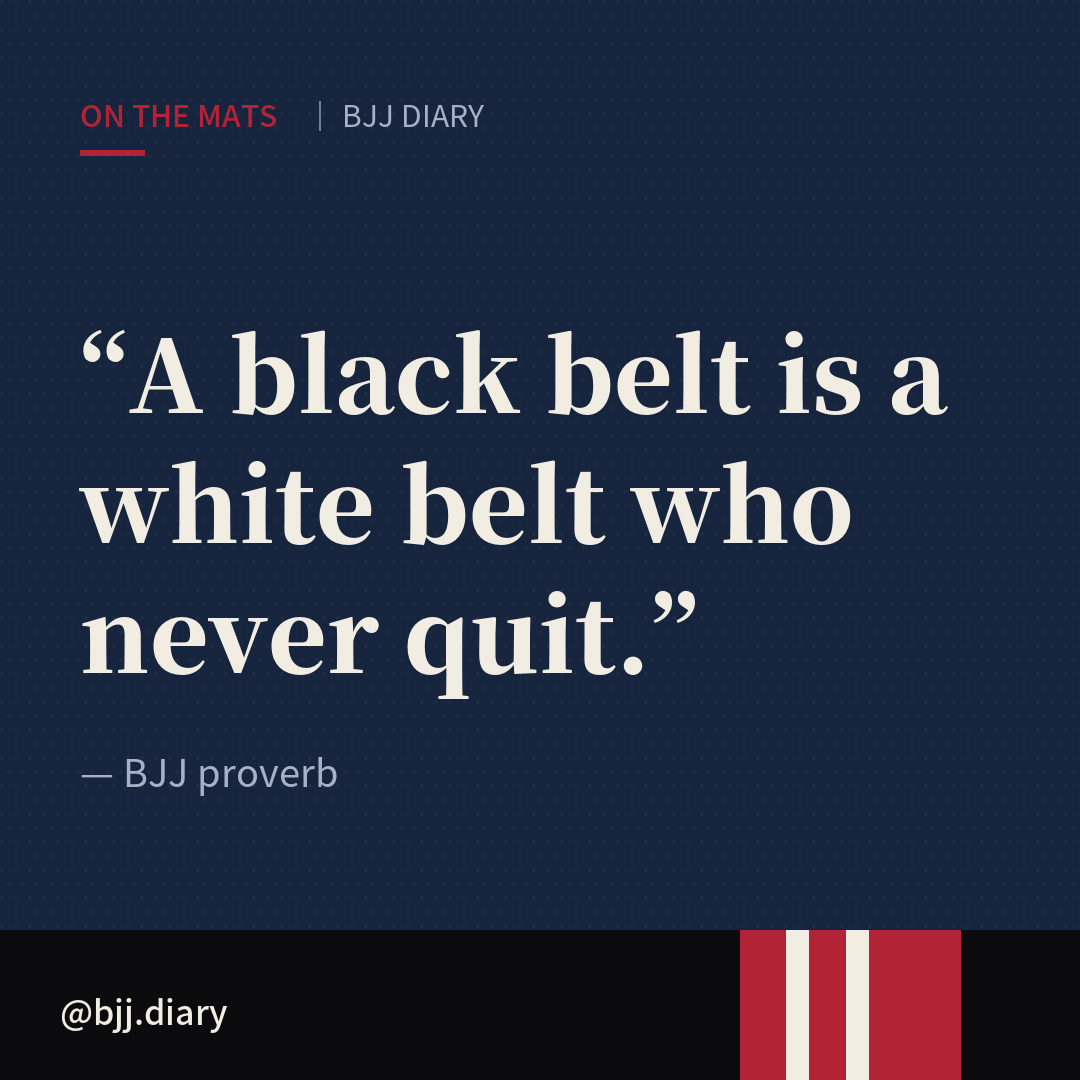
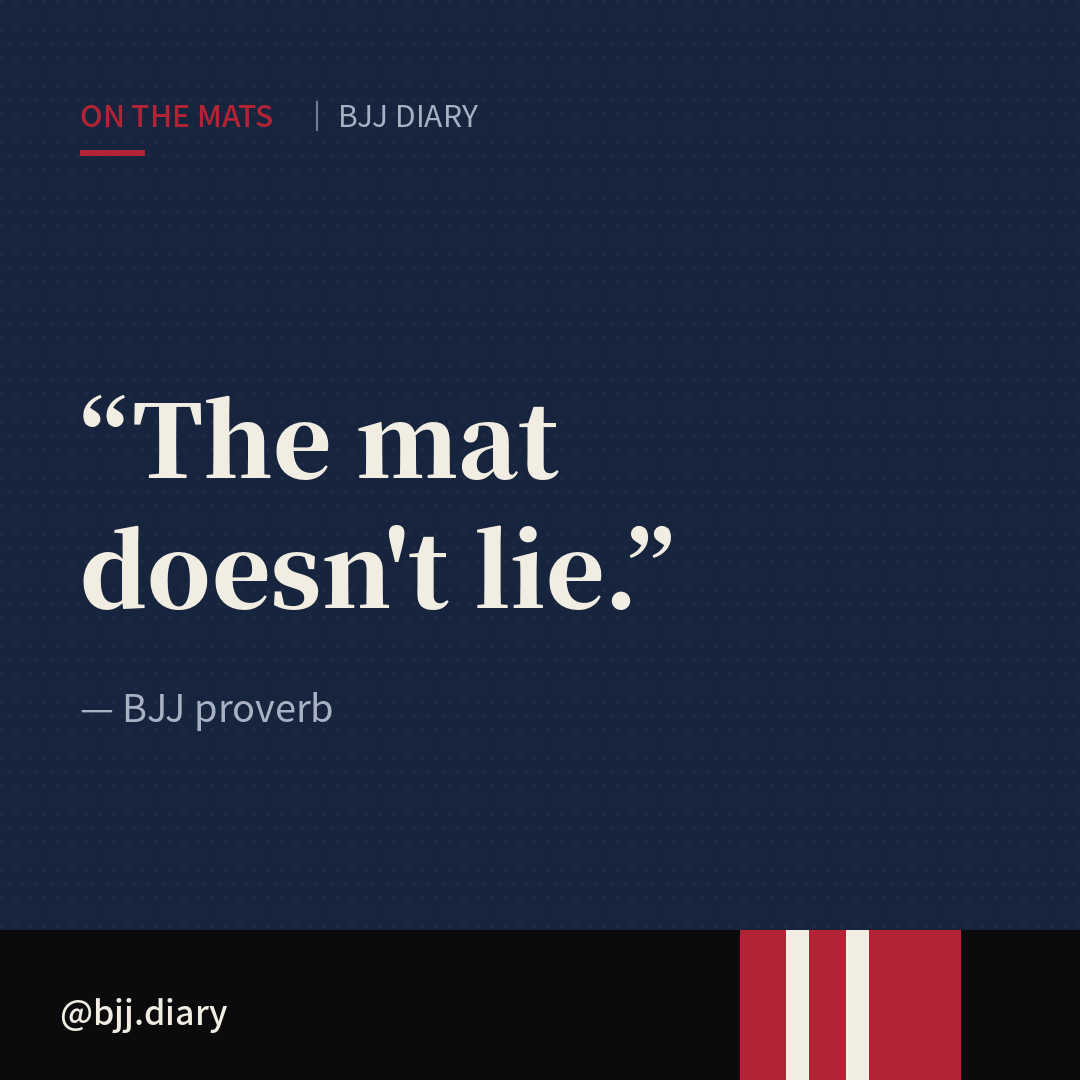
自動投稿 7/20~8/2

diff --git a/generate_cards.py b/generate_cards.py
@@ -28,9 +28,9 @@ FADE       = (168, 177, 196)
 HANDLES = {"ja": "@bjj.diary.jp", "en": "@bjj.diary"}
 
 EYEBROWS = {
-    "tips":    {"ja": ("TRAINING TIPS", "柔術日記"), "en": ("TRAINING TIPS", "BJJ DIARY")},
+    "tips":    {"ja": ("TRAINING TIPS", "BJJ DIARY"), "en": ("TRAINING TIPS", "BJJ DIARY")},
     "quote":   {"ja": ("ON THE MATS", "今日の一言"), "en": ("ON THE MATS", "BJJ DIARY")},
-    "feature": {"ja": ("WHY 柔術日記", "アプリのこと"), "en": ("WHY BJJ DIARY", "THE APP")},
+    "feature": {"ja": ("WHY BJJ DIARY", "アプリのこと"), "en": ("WHY BJJ DIARY", "THE APP")},
     "trivia":  {"ja": ("BJJ TRIVIA", "柔術豆知識"), "en": ("BJJ TRIVIA", "BJJ DIARY")},
 }
 
@@ -110,6 +110,8 @@ def fit_size(d, lines, path, start, min_size, max_w):
 def render(entry, lang):
     data = entry[lang]
     ctype = entry.get("type", "tips")
+    if ctype == "mockup":
+        return render_mockup(entry, lang)
     img = weave_texture(Image.new("RGB", (W, H), GI_NAVY))
     d = ImageDraw.Draw(img)
 
@@ -154,6 +156,75 @@ def main():
         for lang in ("ja", "en"):
             if lang in entry:
                 render(entry, lang)
+
+
+
+
+# ===== mockup card =====
+CREAM      = (250, 247, 240)
+RULE_GRAY  = (215, 211, 204)
+MARGIN_RED = (234, 92, 78)
+INK        = (58, 50, 44)
+INK_SOFT   = (135, 126, 117)
+
+ASSET_STYLE = {
+    "tilt_ja_journal": dict(height=1150, cx=810, cy=560, rotate=0),
+    "tilt_ja_drills":  dict(height=1150, cx=810, cy=560, rotate=0),
+    "mock_ja_stats":   dict(height=1020, cx=800, cy=545, rotate=-6),
+    "mock_ja_notes":   dict(height=1020, cx=800, cy=545, rotate=-6),
+    "mock_ja_comp":    dict(height=1020, cx=800, cy=545, rotate=-6),
+    "mock_en_stats":   dict(height=1020, cx=800, cy=545, rotate=-6),
+    "mock_en_notes":   dict(height=1020, cx=800, cy=545, rotate=-6),
+    "mock_en_comp":    dict(height=1020, cx=800, cy=545, rotate=-6),
+}
+
+
+def notebook_bg():
+    img = Image.new("RGB", (W, H), CREAM)
+    d = ImageDraw.Draw(img)
+    for y in range(150, H - 150, 96):
+        d.line([(140, y), (W, y)], fill=RULE_GRAY, width=3)
+    d.line([(120, 0), (120, H)], fill=MARGIN_RED, width=5)
+    return img
+
+
+def paste_phone(img, asset, style):
+    phone = Image.open(f"assets/{asset}.png").convert("RGBA")
+    if style["rotate"]:
+        phone = phone.rotate(style["rotate"], expand=True, resample=Image.BICUBIC)
+    r = style["height"] / phone.height
+    phone = phone.resize((int(phone.width * r), style["height"]), Image.LANCZOS)
+    alpha = phone.split()[3].point(lambda a: int(a * 0.25))
+    sh = Image.new("RGBA", phone.size, (0, 0, 0, 0))
+    sh.putalpha(alpha)
+    x, y = style["cx"] - phone.width // 2, style["cy"] - phone.height // 2
+    img.paste(Image.new("RGB", phone.size, (60, 50, 44)), (x + 14, y + 20), sh)
+    img.paste(phone, (x, y), phone)
+    return img
+
+
+def belt_bar_cream(d, handle):
+    belt_bar(d, handle)  # 同じ帯バー（黒背景なのでクリームでも成立）
+
+
+def render_mockup(entry, lang):
+    data = entry[lang]
+    asset = data["image"]
+    style = ASSET_STYLE[asset]
+    img = notebook_bg()
+    img = paste_phone(img, asset, style)
+    d = ImageDraw.Draw(img)
+    d.text((170, 130), "WHY BJJ DIARY", font=font(SANS_MED, 30), fill=MARGIN_RED)
+    d.rectangle([170, 188, 234, 193], fill=MARGIN_RED)
+    size = fit_size(d, data["headline"], SANS_BLACK, 92, 56, 420)
+    lh = int(size * 1.32)
+    y = multiline(d, data["headline"], font(SANS_BLACK, size), 170, 300, INK, lh)
+    if data.get("sub"):
+        multiline(d, data["sub"], font(SANS_REG, 35), 170, y + 50, INK_SOFT, 54)
+    belt_bar_cream(d, HANDLES[lang])
+    out = f"output/{entry['date']}_{lang}.png"
+    img.save(out)
+    print("generated:", out)
 
 
 if __name__ == "__main__":

diff --git a/README.md b/README.md
@@ -1,4 +1,4 @@
-# 柔術日記 Instagram 自動投稿
+# BJJ Diary Instagram 自動投稿
 
 日英2アカウントに毎日 JST 21:00 に自動投稿するパイプライン。
 
